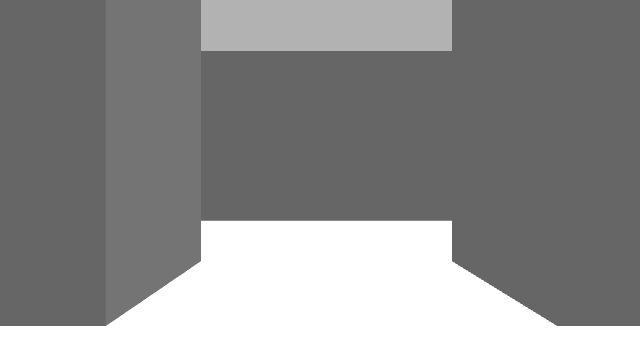
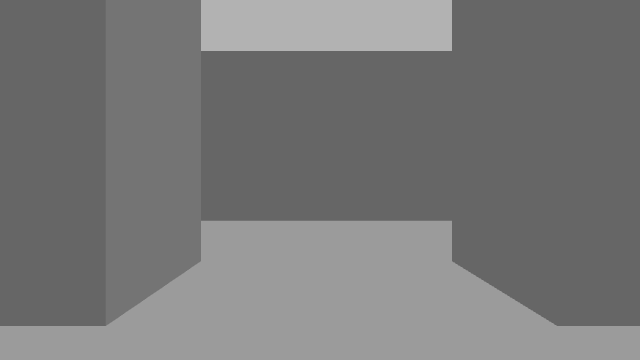
Use the env05/env06 ground model for env04
Replace the inline env04 ground plane with the same model://ground_plane include used by env05 and env06. The floor is now the identical Gazebo/Grey material and the top view is no longer black. Re-render the nine cameras, top view, annotated top and contact sheet.

Changed region(s): [[0.0, 0.6111, 1.0, 1.0]]

diff --git a/scene_impl/IMPLEMENTATION_REPORT.md b/scene_impl/IMPLEMENTATION_REPORT.md
@@ -25,7 +25,7 @@
 > 3. B5 保持负分，B2/B3/目标不变；`audit_scene.py` 的 `DOOR_LABELS` 已同步（D_b1 负分、D_b4 办公）。
 > 4. 2026-11-17 已重渲染 env06 的 10 个机位、俯视图/标注图和 `rooms_contact_sheet.png`（新增 `cam_b4`/`cam_b4in`）。
 > 5. 2026-11-17 env04 接入同一套截图流程（9 机位 + 俯视/标注/拼图，输出 `shots/env04`）；同时修复可视化成功判定（audit 先于可视化运行，并回退读取 `audit.completion.task_done`）和设计平面图门宽标签（1.4 m → 实际 2.30 m）。
-> 6. 2026-11-17 env04 地面材质改为白色（`Gazebo/White`），俯视截图不再全黑；9 机位、俯视、标注和拼图已重新渲染。
+> 6. 2026-11-17 env04 地面改用与 env05/env06 相同的 `model://ground_plane`（Gazebo/Grey），俯视截图不再全黑；9 机位、俯视、标注和拼图已重新渲染。
 
 ## 1. 交付物
 
